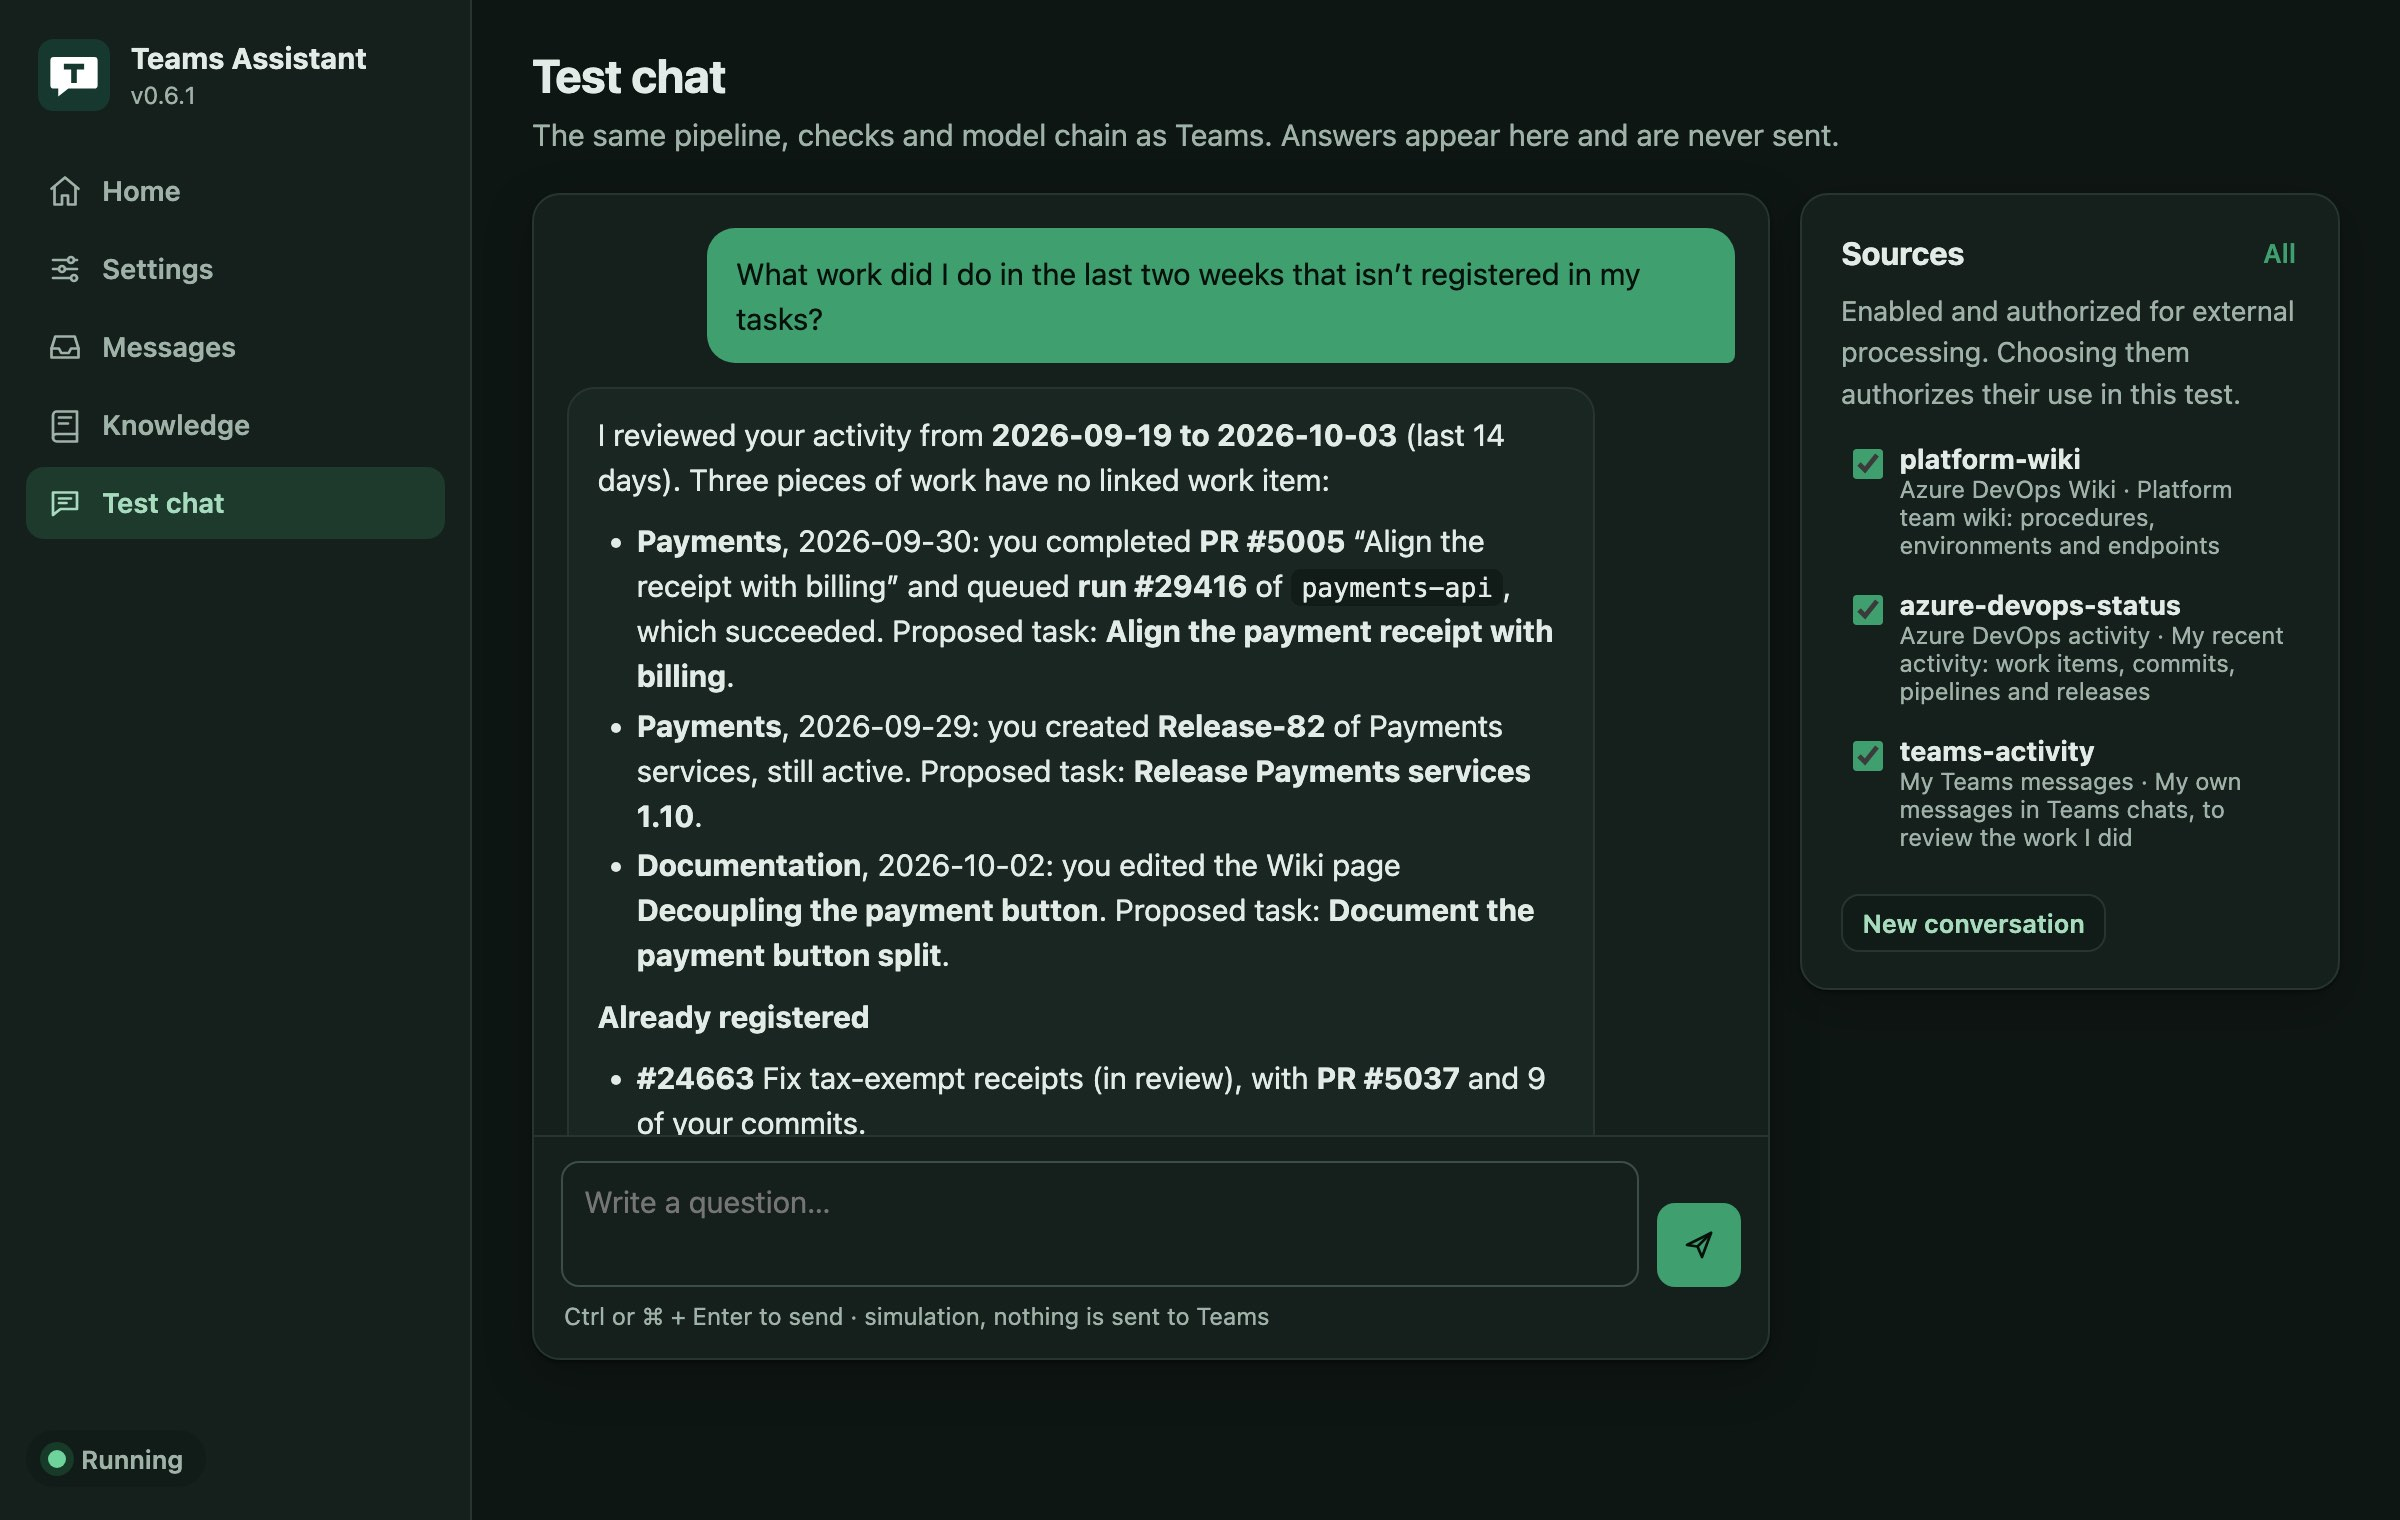
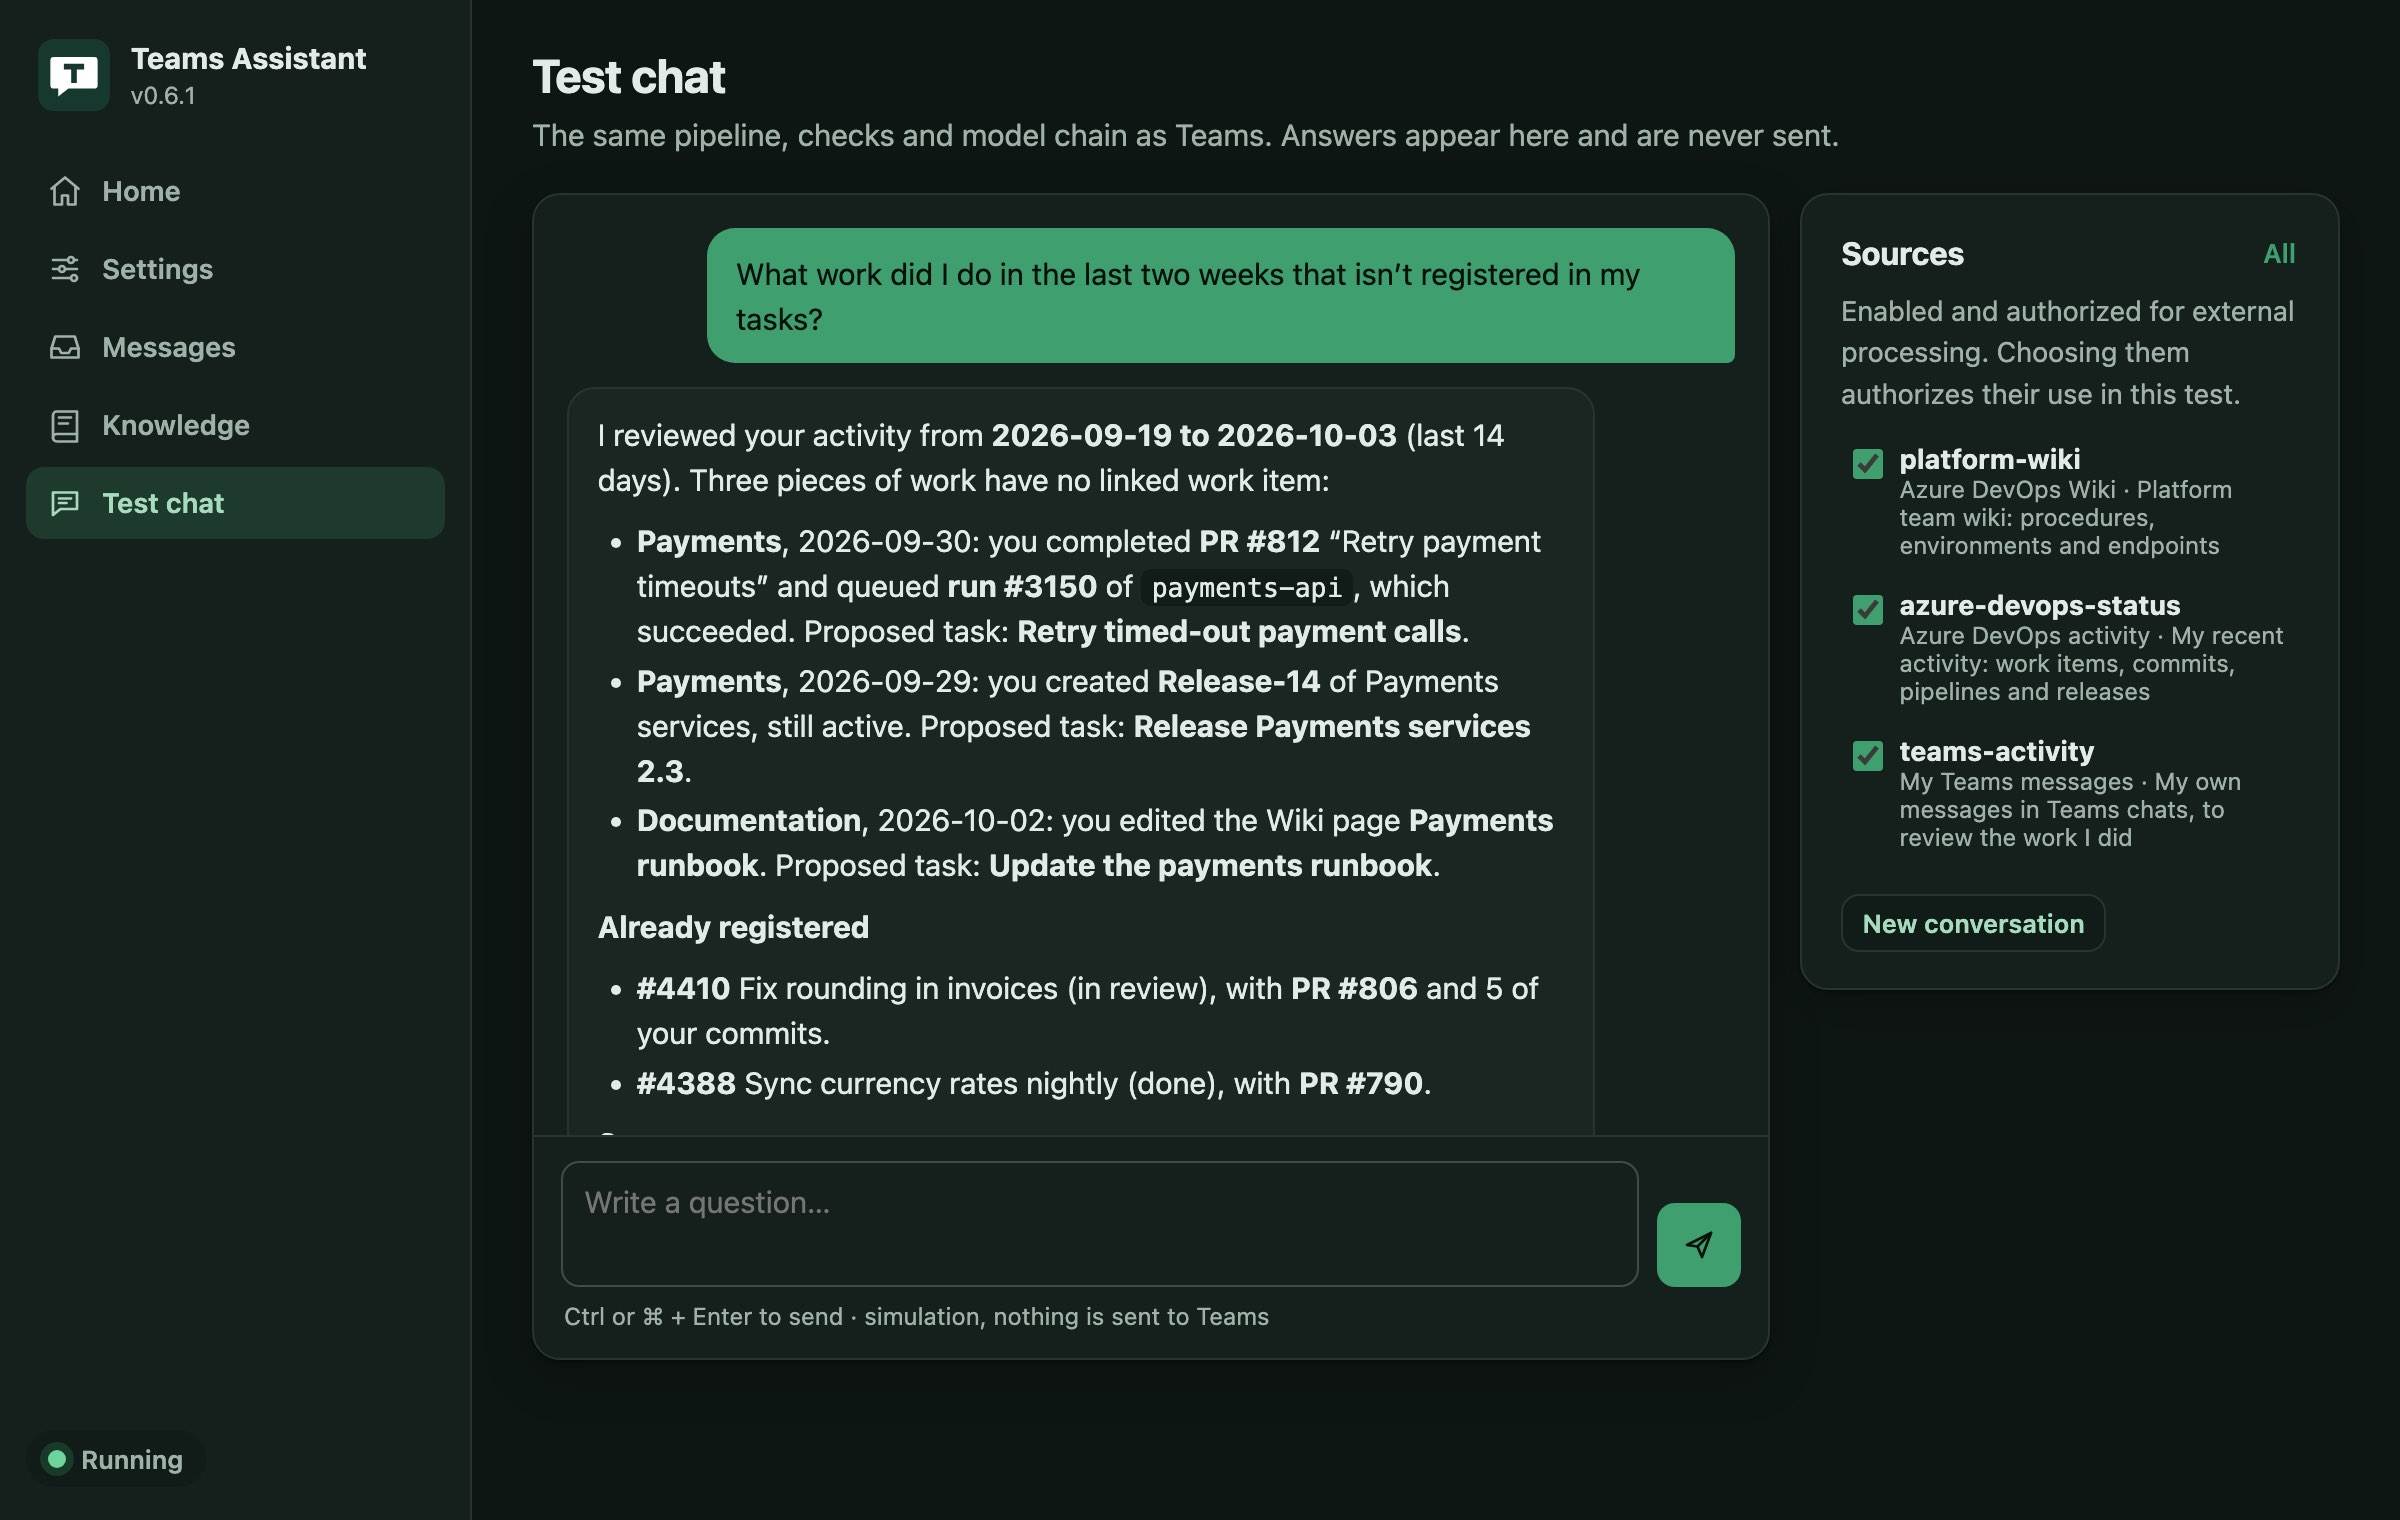
Use only synthetic identifiers in tests and screenshots
Some examples and the landing screenshots reused work item numbers and
titles from a real organization; replace them with invented ones.

Changed region(s): [[0.25, 0.3401, 0.6562, 0.7421]]

diff --git a/src/ado/wiki.rs b/src/ado/wiki.rs
@@ -942,7 +942,7 @@ impl<'a> Reader<'a> {
                     }
                     match self.page(wiki, &path, Some(git), version).await {
                         Ok(page) => {
-                            // A page named after a work item («HU 19362 - …») documents it.
+                            // A page named after a work item («HU 8765 - …») documents it.
                             let mut work_items = items.clone();
                             work_items.extend(super::review::mentions(&page.title));
                             edits.push(WikiEdit {
@@ -1609,15 +1609,7 @@ mod tests {
     #[tokio::test]
     async fn own_edits_list_the_pages_the_user_changed_with_verified_links() {
         let server = MockServer::start().await;
-        fixture(
-            &server,
-            "/",
-            "projectWiki",
-            "/HU-19362.md",
-            "/HU 19362",
-            true,
-        )
-        .await;
+        fixture(&server, "/", "projectWiki", "/HU-8765.md", "/HU 8765", true).await;
         let recent = chrono::Utc::now().to_rfc3339();
         let old = (chrono::Utc::now() - chrono::Duration::days(40)).to_rfc3339();
         let created = "2222222222222222222222222222222222222222";
@@ -1640,12 +1632,12 @@ mod tests {
         for (sha, changes) in [
             (
                 created,
-                json!([{"item":{"path":"/HU-19362.md","gitObjectType":"blob"},"changeType":"add"}]),
+                json!([{"item":{"path":"/HU-8765.md","gitObjectType":"blob"},"changeType":"add"}]),
             ),
             (
                 edited,
                 json!([
-                    {"item":{"path":"/HU-19362.md","gitObjectType":"blob"},"changeType":"edit"},
+                    {"item":{"path":"/HU-8765.md","gitObjectType":"blob"},"changeType":"edit"},
                     {"item":{"path":"/.order","gitObjectType":"blob"},"changeType":"edit"},
                 ]),
             ),
@@ -1664,7 +1656,7 @@ mod tests {
         let since = chrono::Utc::now() - chrono::Duration::days(14);
         Mock::given(method("GET"))
             .and(path("/test/_apis/wit/workitems"))
-            .and(query_param("ids", "77,19362"))
+            .and(query_param("ids", "77,8765"))
             .respond_with(ResponseTemplate::new(200).set_body_json(json!({"value":[
                 {"id":77,"fields":{"System.TeamProject":"Project","System.Title":"Runbook","System.State":"Active"}},
             ]})))
@@ -1678,9 +1670,9 @@ mod tests {
         assert!(!partial);
         assert_eq!(edits.len(), 1, "{edits:?}");
         let edit = &edits[0];
-        assert_eq!(edit.title, "HU 19362");
+        assert_eq!(edit.title, "HU 8765");
         assert!(edit.created);
-        // The commit names #77 and the title HU 19362, which Azure DevOps does not return.
+        // The commit names #77 and the title HU 8765, which Azure DevOps does not return.
         assert_eq!(edit.work_items, vec![77]);
         assert_eq!(edit.unverified, 1);
         assert_eq!(edit.reference.authority.as_deref(), Some("created_by_me"));
@@ -1693,7 +1685,7 @@ mod tests {
             .split_once("Registered in work items:")
             .unwrap();
         assert!(
-            registered.contains("created Wiki page \"HU 19362\" (Project / Documentation): the change names #77 and 1 work item(s) that could not be verified"),
+            registered.contains("created Wiki page \"HU 8765\" (Project / Documentation): the change names #77 and 1 work item(s) that could not be verified"),
             "{}",
             evidence.text
         );

diff --git a/src/ado/review.rs b/src/ado/review.rs
@@ -110,7 +110,7 @@ fn linked(url: &str) -> Option<Linked> {
     }
 }
 /// Work item IDs a text names: `#123`, `AB#123` (Azure Boards' linking convention) or a
-/// type and number such as «HU 19362» or «Bug 24663».
+/// type and number such as «HU 8765» or «Bug 4321».
 pub(crate) fn mentions(text: &str) -> Vec<u64> {
     let mut ids: Vec<u64> = Vec::new();
     for pattern in [
@@ -1081,8 +1081,8 @@ mod tests {
         assert_eq!(linked("vstfs:///Git/Ref/proj%2Frepo%2FGBmain"), None);
         assert_eq!(mentions("Fix login AB#123 and #45; not x#9"), vec![123, 45]);
         assert_eq!(
-            mentions("Bug 24663: corregir Exento; HU 19362 - Paso a producción"),
-            vec![24663, 19362]
+            mentions("Bug 4321: corregir redondeo; HU 8765 - Paso a producción"),
+            vec![4321, 8765]
         );
         assert!(mentions("Release 2 of version 1.10.0").is_empty());
         assert_eq!(
@@ -1216,7 +1216,7 @@ mod tests {
                 title: "Shared fix".into(),
                 status: "completed".into(),
                 date: "2026-09-28T12:00:00Z".into(),
-                work_items: vec![555, 19362],
+                work_items: vec![555, 8765],
                 ..Default::default()
             }],
             runs: vec![Run {
@@ -1233,7 +1233,7 @@ mod tests {
         assert_eq!(candidates, 0, "{text}");
         assert!(text.contains("PR #48 \"Shared fix\" in payments-api (completed): linked to #555 and 1 that could not be verified"), "{text}");
         assert!(text.contains("pipeline run #901 of \"Nightly\", queued by the user: succeeded: linked to 2 work item(s) that could not be verified"), "{text}");
-        assert!(!text.contains("#19362") && !text.contains("#6") && !text.contains("#8,"));
+        assert!(!text.contains("#8765") && !text.contains("#6") && !text.contains("#8,"));
         assert!(
             references
                 .iter()

diff --git a/desktop/skills/personal-teams-assistant/references/azure-wiki.md b/desktop/skills/personal-teams-assistant/references/azure-wiki.md
@@ -12,6 +12,6 @@ Limits: 30 seconds per Wiki search, requests of at most 8 seconds, 1 MB, Search 
 
 For `pta chat` or `test simulate`, authorize external_processing on that source with `sources audience`, keeping the independent local audiences. `sources` in the simulation request selects the resource explicitly and grants no Teams permission. Ask with the topic in the first sentence. A follow-up within 30 minutes in the same conversation may omit it («¿y si quiero pagar 2 servicios?»): it is rewritten with the previous exchange and the Wiki is searched for the resolved topic; that resolved question becomes the context of the next turn. An explicit Wiki request and usage/configuration questions take priority over activity words such as pipeline; «cómo funciona la notificación de pagos» / "how does the payment notification work" also reads documentation. No model selects or vetoes tools before searching: ambiguous messages are classified as a question, an activity review, a request for the person, a greeting or information, and questions may retrieve authorized knowledge. A single Wiki source serves documentary reads; other ambiguous scopes are chosen among authorized capabilities by the model chain. A normal answer reads one tool; only an activity review combines tools. The result must link every page used and attribute third-party or unknown authorship, in a final «Fuentes» section («Sources» with `llm.language = "en"`) whose link text is the page title; Teams receives the answer as HTML and `pta chat` returns it as Markdown. Code checks the citations, work items/pipelines/stages and relevant interlocutors' names against the complete answer before sending it. Never trim citations after those checks. Simulating never sends to Graph.
 
-In an activity review, the Wiki source contributes the pages the user created or edited in the window, from each wiki's Git history (own commits only), each with its verified link; a page whose change names a work item (`#123`, `AB#123`, «HU 19362») counts as registered.
+In an activity review, the Wiki source contributes the pages the user created or edited in the window, from each wiki's Git history (own commits only), each with its verified link; a page whose change names a work item (`#123`, `AB#123`, «HU 8765») counts as registered.
 
 Done when: real list/search/read, content, revision and link checked, and a simulation backed by an accessible page; audiences kept. To verify a real edit, the person must edit an authorized page and say so, to repeat the read; never write to the Wiki as part of a read-only test. Report separately the controlled update regression and any real edit not observed.
